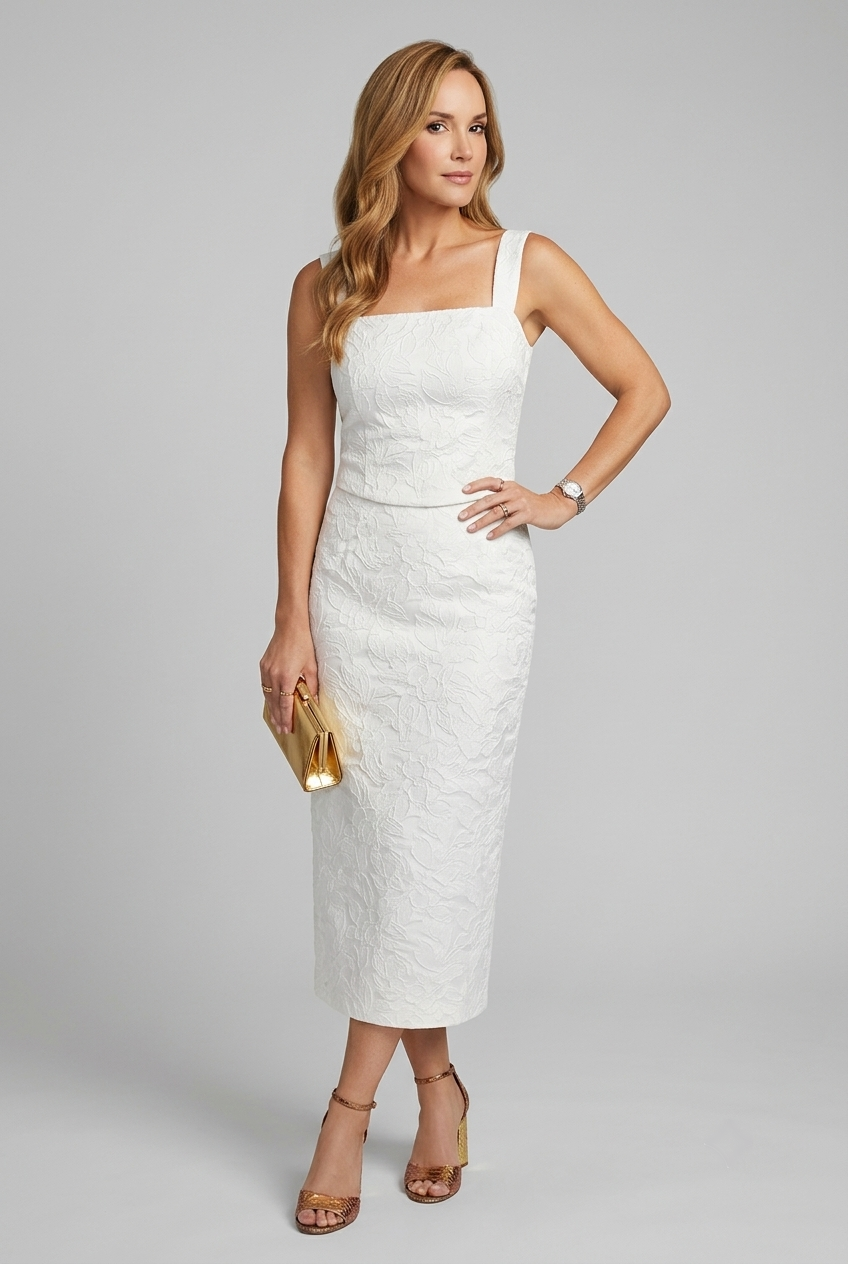
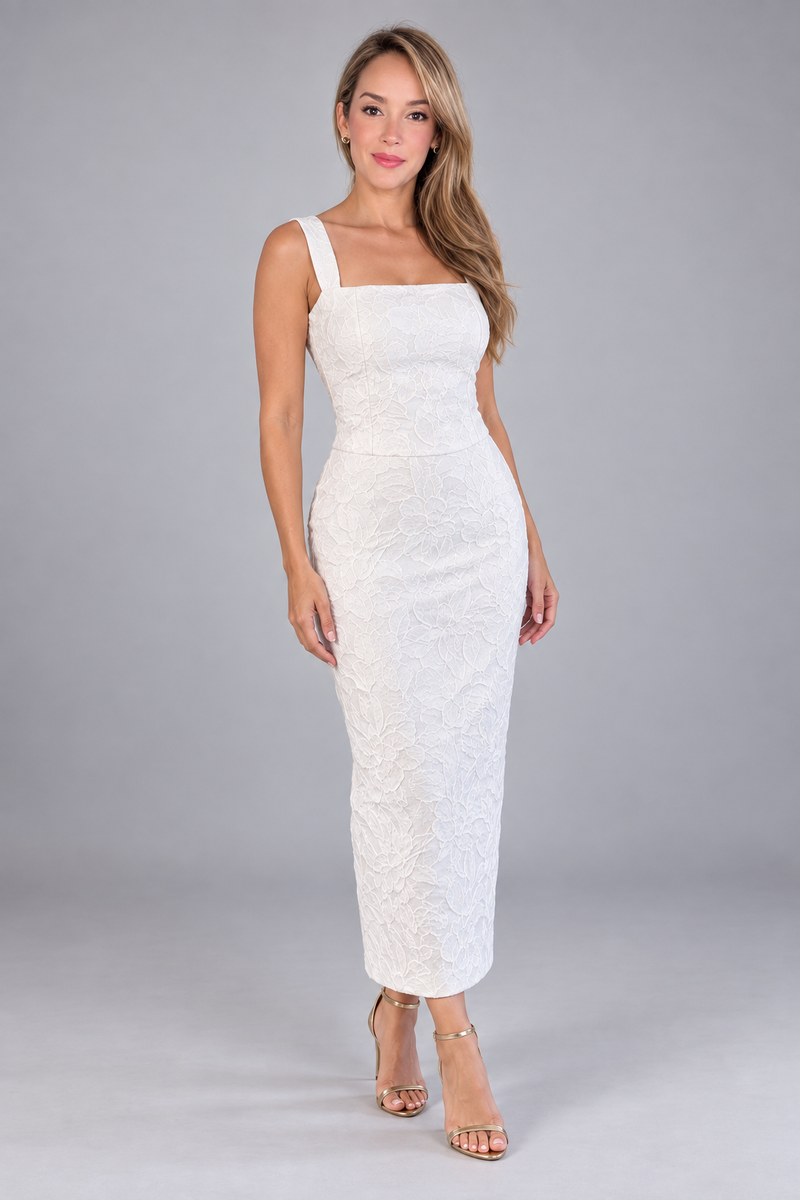
Actualiza catalogo con nuevos modelos

diff --git a/index.html b/index.html
@@ -1289,10 +1289,10 @@
       },
       {
         id: 4,
-        nombre: "Rafaela dress",
+        nombre: "Mía dress",
         categoria: "vestidos",
         precio: 88.00,
-        imagen: "Imagenes/Rafaela dress nueva.png",
+        imagen: "Imagenes/Mía dress.png",
         esNewArrival: true,
         ordenNew: 7,
         descripcion: "",
@@ -1634,15 +1634,18 @@
       },
       {
         id: 30,
-        nombre: "Stella Set con flecos",
+        nombre: "Blusa Stella flecos",
         categoria: "conjuntos",
-        precio: 96.00,
-        imagen: "Imagenes/Stella Set con flecos.png",
-        esNewArrival: true,
-        ordenNew: 1,
+        precio: 48.00,
+        imagen: "Imagenes/Blusa Stella flecos blanco.png",
+        esNewArrival: false,
         descripcion: "",
-        reel: "https://www.instagram.com/reel/DdFVsM-ufj3",
-        colores: []
+        reel: "https://www.instagram.com/reel/DdKLfhBxAwn",
+        colores: [
+          { nombre: "Blanco", hex: "#F7F4EE", imagenes: ["Imagenes/Blusa Stella flecos blanco.png"] },
+          { nombre: "Estampado", hex: "#242424", imagenes: ["Imagenes/Blusa Stella flecos estampado.png"] },
+          { nombre: "Negro", hex: "#111111", imagenes: ["Imagenes/Blusa Stella flecos negro.png"] }
+        ]
       },
       {
         id: 31,
@@ -1654,6 +1657,40 @@
         ordenNew: 2,
         descripcion: "",
         reel: "https://www.instagram.com/reel/DdFVsM-ufj3",
+        colores: []
+      },
+      {
+        id: 32,
+        nombre: "Paula dress",
+        categoria: "vestidos",
+        precio: 96.00,
+        imagen: "Imagenes/Paula dress.png",
+        esNewArrival: true,
+        ordenNew: 1,
+        descripcion: "",
+        reel: "https://www.instagram.com/reel/DdPr21QObdc",
+        colores: []
+      },
+      {
+        id: 33,
+        nombre: "Rafaela dress",
+        categoria: "vestidos",
+        precio: 88.00,
+        imagen: "Imagenes/Rafaela dress.png",
+        esNewArrival: false,
+        descripcion: "",
+        reel: "https://www.instagram.com/reel/DOE0ZyiDoNX",
+        colores: []
+      },
+      {
+        id: 34,
+        nombre: "Denim set",
+        categoria: "conjuntos",
+        precio: 88.00,
+        imagen: "Imagenes/Denim set.png",
+        esNewArrival: false,
+        descripcion: "",
+        reel: "https://www.instagram.com/reel/DNMLSRpxrJj",
         colores: []
       }
     ];
